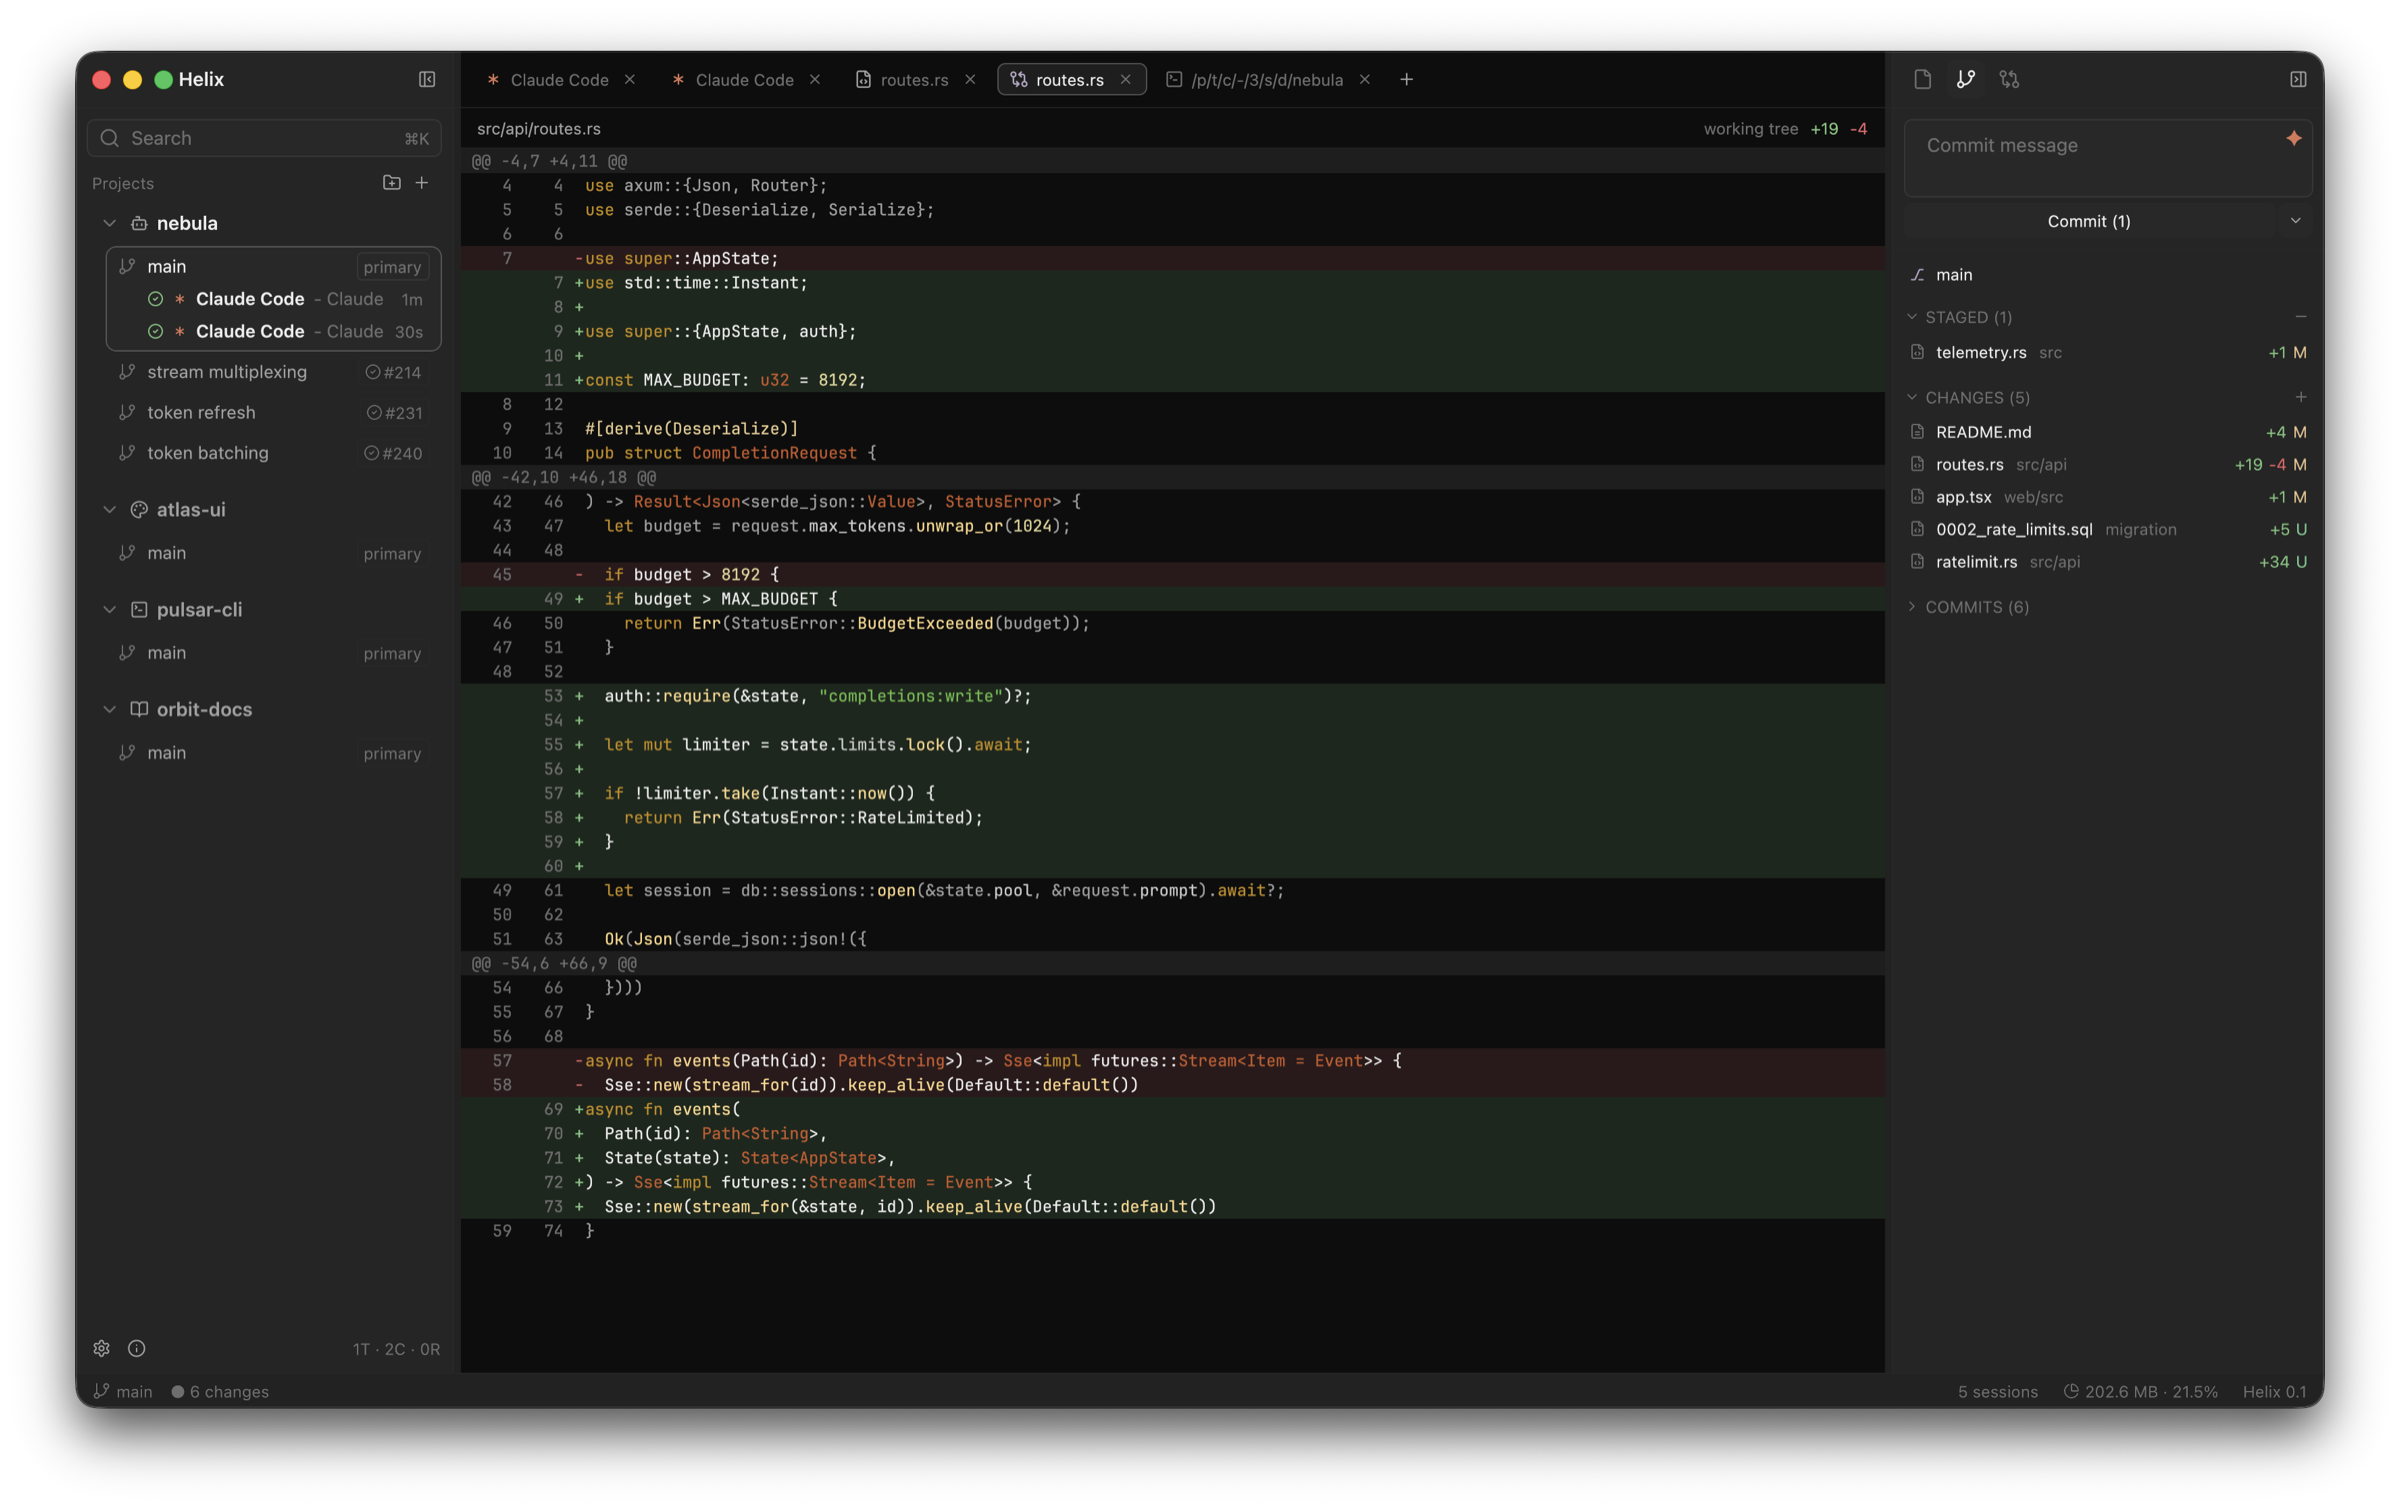
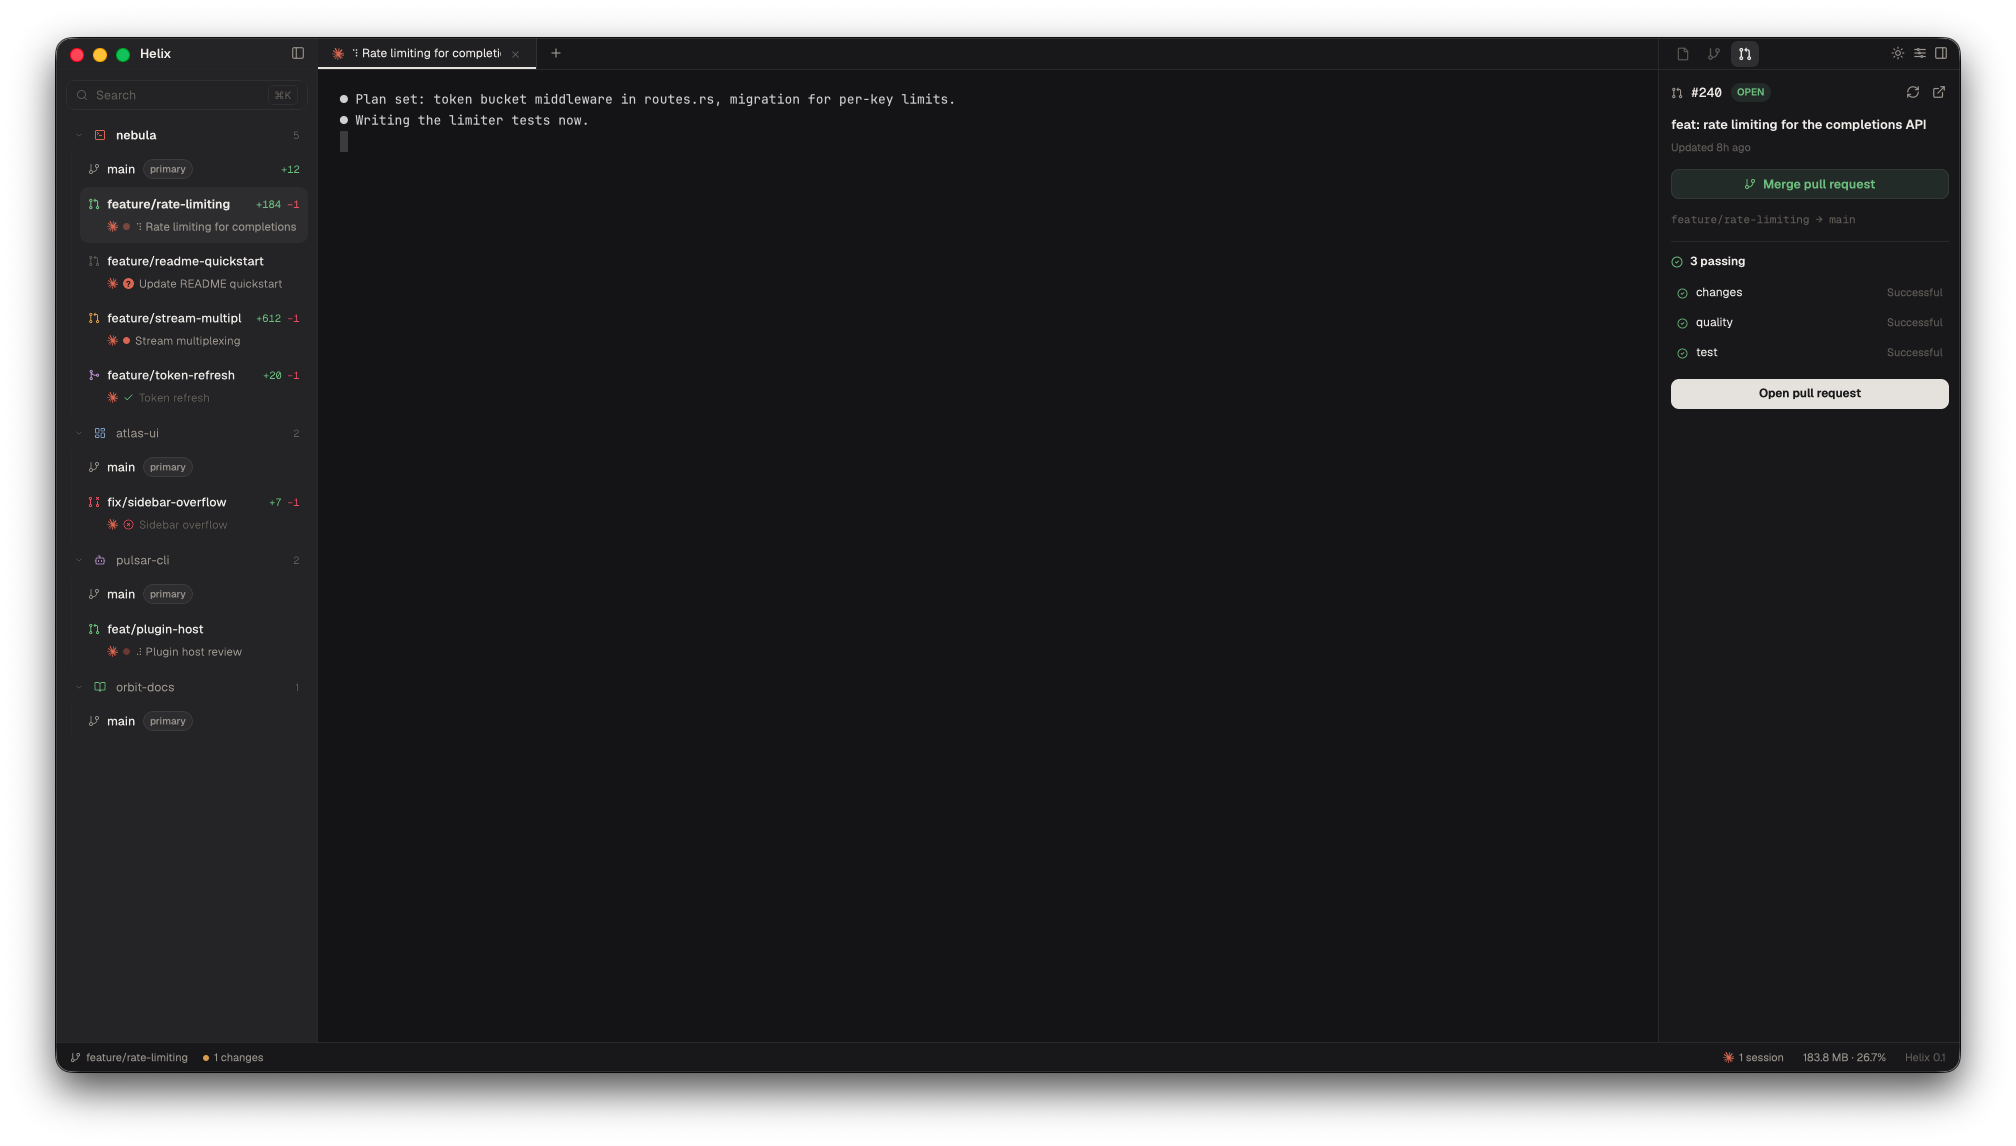
docs: lead with the sidebar the redesign produced
The overview shot still showed the old chrome, and its caption described a screen
that no longer exists. It is replaced by one of the current sidebar, with a
caption that says what is actually in it.

The agent session shot goes with it; what it was there to show — a real PTY per
session, tracked per worktree — is now visible in the overview, so the section
keeps the claim in prose instead of a second screenshot of the same window.

diff --git a/README.md b/README.md
@@ -18,9 +18,9 @@ arquivo giram em torno dele — numa janela só.
 </div>
 
 <div align="center">
-  <img src="assets/screenshots/overview.png" width="960" alt="Helix — diff e controle de versão" />
+  <img src="assets/screenshots/overview.png" width="960" alt="Helix — projetos, worktrees e sessões de agente" />
   <br />
-  <sub>Dois agentes na <code>main</code>, três worktrees esperando, um diff contra a working tree aberto, e a divisão staged/changes/untracked à direita.</sub>
+  <sub>Quatro projetos e seus worktrees: as linhas somadas de cada um, o ícone da branch na cor do estado do PR, e a sessão de agente de cada worktree com o que ela está esperando — trabalhando, com uma pergunta aberta, ou concluída. À direita, o PR da branch em foco.</sub>
 </div>
 
 ---
@@ -101,13 +101,12 @@ sobre `libgit2`, um PTY de verdade e a CLI do `gh`.
 - Usa seu login shell (fish, zsh, bash…) detectado por `getpwuid`, com fallback para
   `$SHELL`
 
-## Sessões de agente
+### Sessões de agente
 
-<div align="center">
-  <img src="assets/screenshots/claude.png" width="960" alt="Sessão do Claude Code dentro do Helix" />
-  <br />
-  <sub>Claude Code num PTY de verdade, uma aba por sessão, cada uma rastreada na sidebar com seu próprio status e tempo decorrido.</sub>
-</div>
+- Claude Code num PTY de verdade, uma aba por sessão
+- Cada sessão é rastreada na sidebar do seu worktree: o que ela está fazendo, há
+  quanto tempo, e se está esperando alguém — uma pergunta aberta ganha um `?`, uma
+  resposta pronta ganha um marcador, e o badge só sai quando você abre a sessão
 
 ## Build
 
